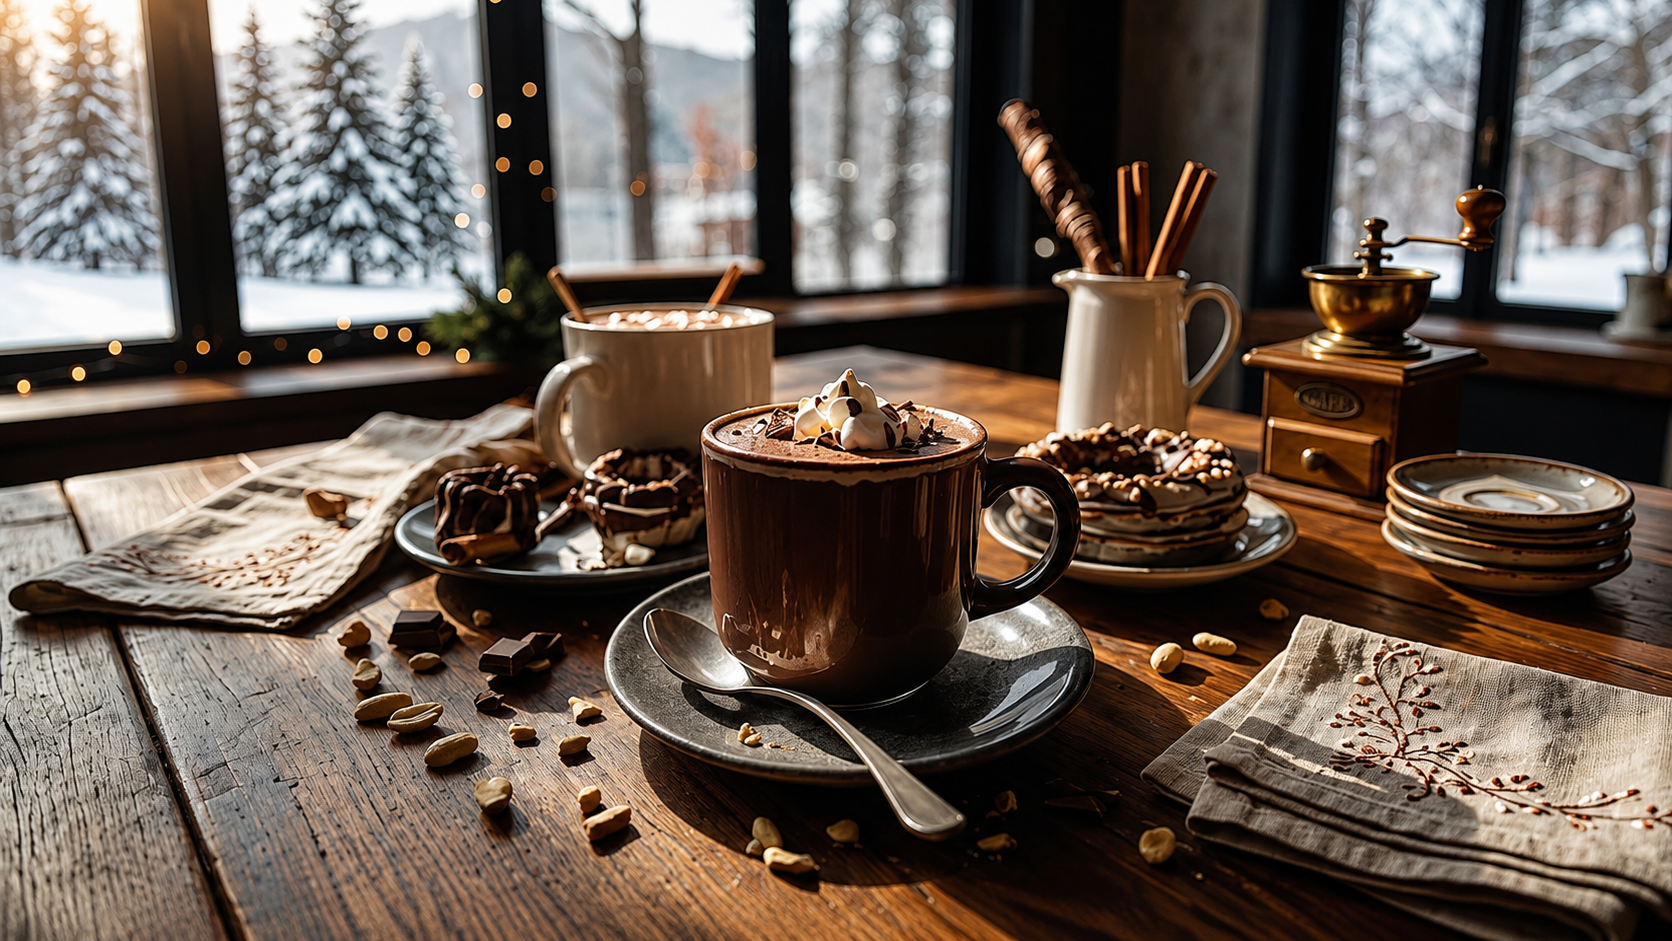
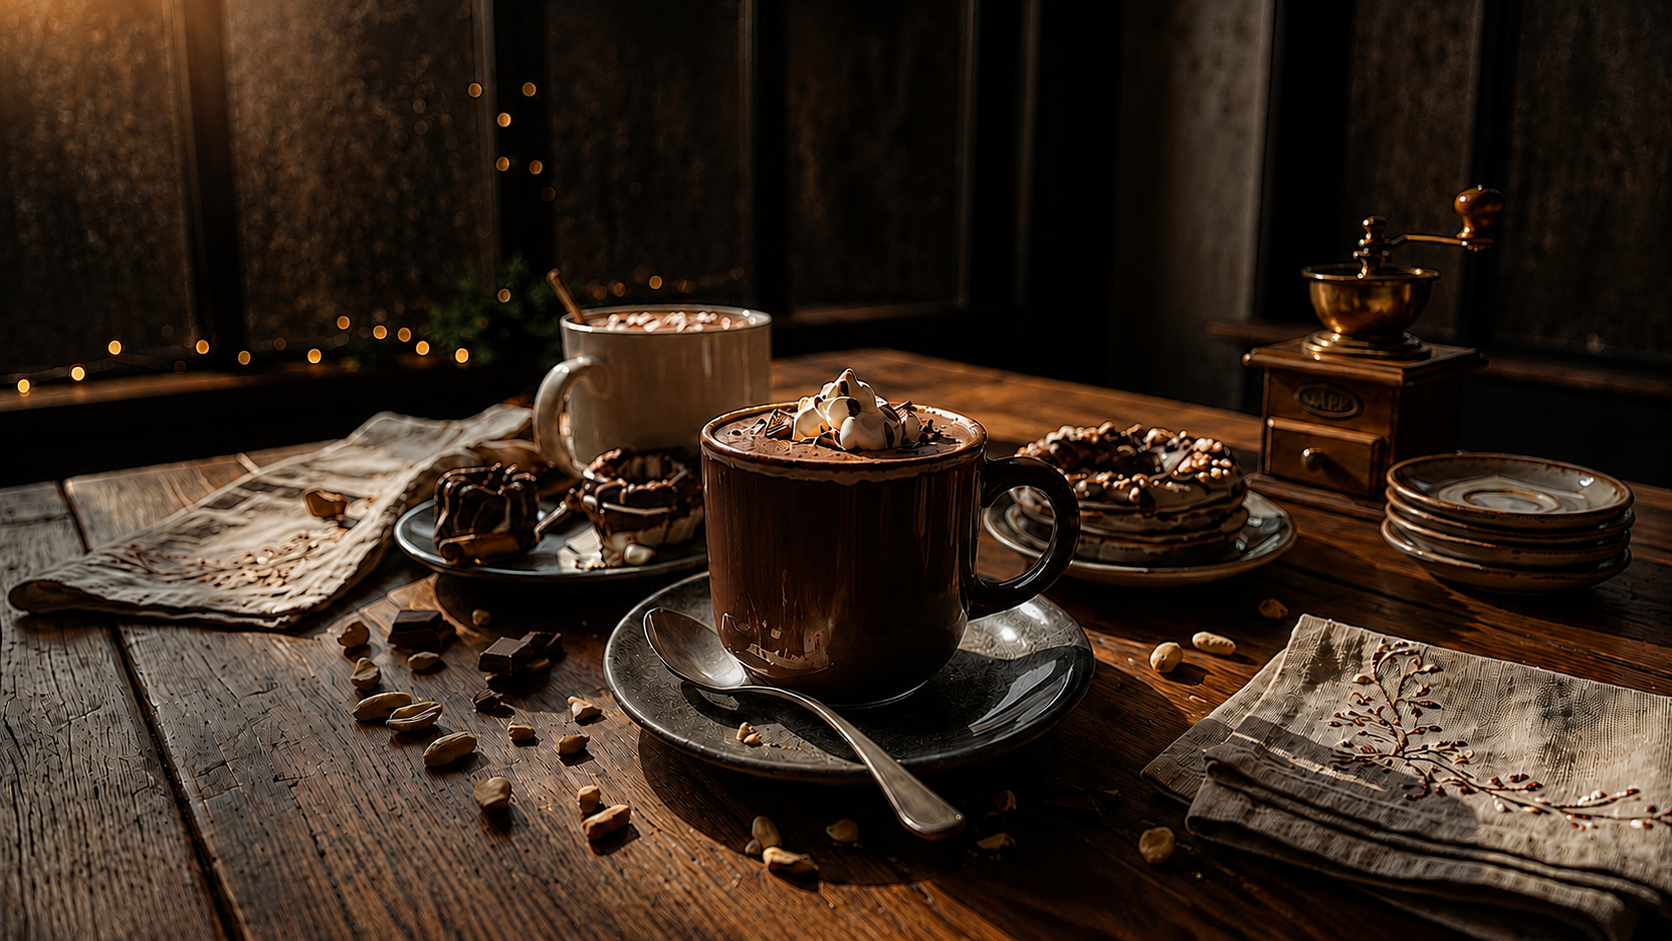
Cloné el estilo de navbar de Tienda de Café eliminando su background y mejorando las imágenes de fondo

diff --git a/css/styles.css b/css/styles.css
@@ -203,21 +203,29 @@ a:active {
     justify-content: space-between;
     align-items: center;
     padding: 0 5%;
-    background-color: var(--color-primario);
-    position: sticky;
+    background-color: transparent;
+    position: absolute;
+    width: 100%;
     top: 0;
+    left: 0;
     z-index: 1000;
     height: 70px;
-    box-shadow: 0 2px 12px rgba(0, 0, 0, 0.35);
+    box-shadow: none;
     flex-wrap: wrap;
 }
 
 .navbar__logo a {
     font-family: var(--fuente-titulo);
-    font-size: 1.5rem;
+    font-size: 1.8rem;
     color: var(--color-acento);
     letter-spacing: 3px;
     text-transform: uppercase;
+    text-shadow: 0 2px 6px rgba(0,0,0,0.4);
+    display: flex;
+    flex-direction: column;
+    align-items: center;
+    line-height: 1.1;
+    width: min-content;
 }
 
 .navbar__logo a:hover {
@@ -231,14 +239,15 @@ a:active {
 }
 
 .navbar__menu li a {
-    color: var(--color-claro);
-    font-size: 0.9rem;
-    font-weight: 500;
+    color: #ffffff;
+    font-size: 1.05rem;
+    font-weight: 600;
     letter-spacing: 0.8px;
     text-transform: uppercase;
     padding-bottom: 4px;
     border-bottom: 2px solid transparent;
     transition: var(--transicion);
+    text-shadow: 0 2px 6px rgba(0,0,0,0.4);
 }
 
 .navbar__menu li a:hover {

diff --git a/css/locales.css b/css/locales.css
@@ -232,3 +232,10 @@
         height: 50vh;
     }
 }
+
+/* ───── Override Navbar para Locales ───── */
+.navbar {
+    background-color: var(--color-primario);
+    position: sticky;
+    box-shadow: 0 2px 12px rgba(0, 0, 0, 0.35);
+}

diff --git a/locales.html b/locales.html
@@ -29,7 +29,7 @@
                 <span></span>
             </label>
             <ul class="navbar__menu">
-                <li><a href="index.html">Inicio</a></li>
+
                 <li><a href="tienda.html">Nuestra Tienda</a></li>
                 <li><a href="tutoriales.html">Tutoriales</a></li>
                 <li><a href="locales.html">Locales</a></li>

diff --git a/contacto.html b/contacto.html
@@ -26,7 +26,6 @@
                 <span></span>
             </label>
             <ul class="navbar__menu">
-                <li><a href="index.html">Inicio</a></li>
                 <li><a href="tienda.html">Nuestra Tienda</a></li>
                 <li><a href="tutoriales.html">Tutoriales</a></li>
                 <li><a href="locales.html">Locales</a></li>

diff --git a/franquicias.html b/franquicias.html
@@ -26,7 +26,6 @@
                 <span></span>
             </label>
             <ul class="navbar__menu">
-                <li><a href="index.html">Inicio</a></li>
                 <li><a href="tienda.html">Nuestra Tienda</a></li>
                 <li><a href="tutoriales.html">Tutoriales</a></li>
                 <li><a href="locales.html">Locales</a></li>

diff --git a/index.html b/index.html
@@ -25,7 +25,6 @@
                 <span></span>
             </label>
             <ul class="navbar__menu">
-                <li><a href="index.html">Inicio</a></li>
                 <li><a href="tienda.html">Nuestra Tienda</a></li>
                 <li><a href="tutoriales.html">Tutoriales</a></li>
                 <li><a href="locales.html">Locales</a></li>

diff --git a/menu-tienda.html b/menu-tienda.html
@@ -26,7 +26,6 @@
                 <span></span>
             </label>
             <ul class="navbar__menu">
-                <li><a href="index.html">Inicio</a></li>
                 <li><a href="tienda.html">Nuestra Tienda</a></li>
                 <li><a href="tutoriales.html">Tutoriales</a></li>
                 <li><a href="locales.html">Locales</a></li>

diff --git a/tienda.html b/tienda.html
@@ -26,7 +26,6 @@
                 <span></span>
             </label>
             <ul class="navbar__menu">
-                <li><a href="index.html">Inicio</a></li>
                 <li><a href="tienda.html">Nuestra Tienda</a></li>
                 <li><a href="tutoriales.html">Tutoriales</a></li>
                 <li><a href="locales.html">Locales</a></li>

diff --git a/trabaja-en-tdc.html b/trabaja-en-tdc.html
@@ -26,7 +26,6 @@
                 <span></span>
             </label>
             <ul class="navbar__menu">
-                <li><a href="index.html">Inicio</a></li>
                 <li><a href="tienda.html">Nuestra Tienda</a></li>
                 <li><a href="tutoriales.html">Tutoriales</a></li>
                 <li><a href="locales.html">Locales</a></li>

diff --git a/tutoriales.html b/tutoriales.html
@@ -26,7 +26,6 @@
                 <span></span>
             </label>
             <ul class="navbar__menu">
-                <li><a href="index.html">Inicio</a></li>
                 <li><a href="tienda.html">Nuestra Tienda</a></li>
                 <li><a href="tutoriales.html">Tutoriales</a></li>
                 <li><a href="locales.html">Locales</a></li>